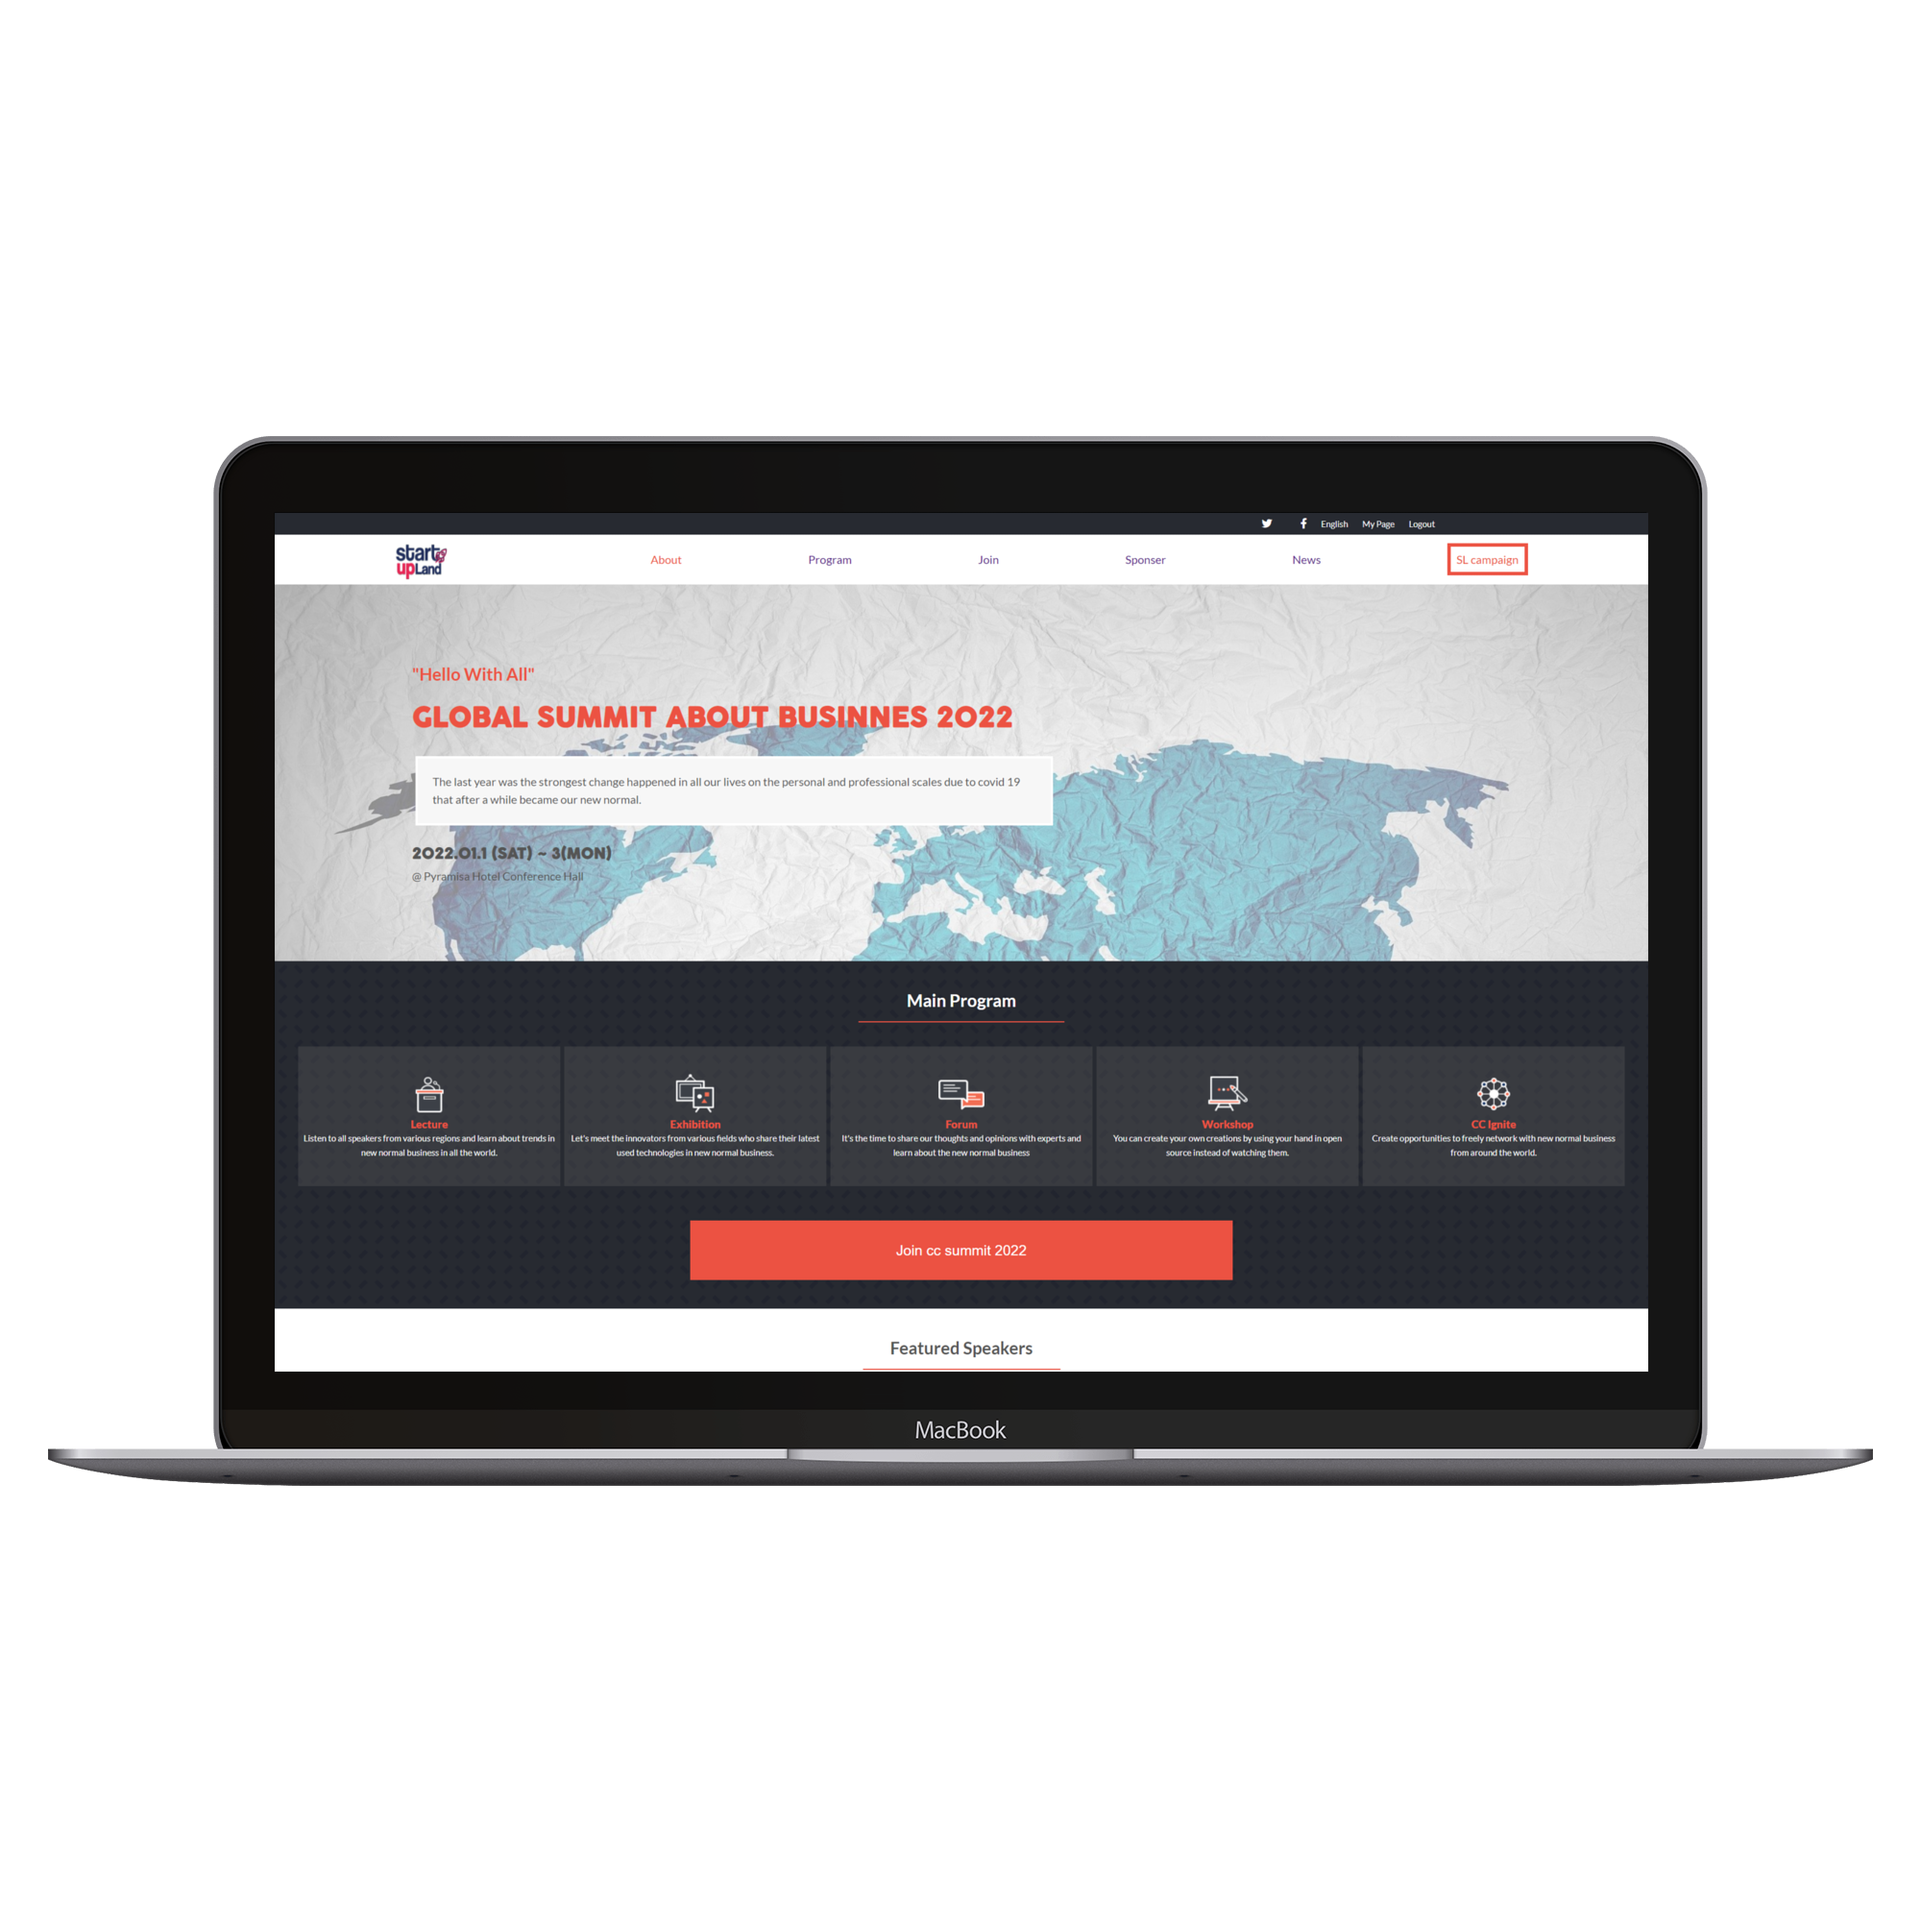
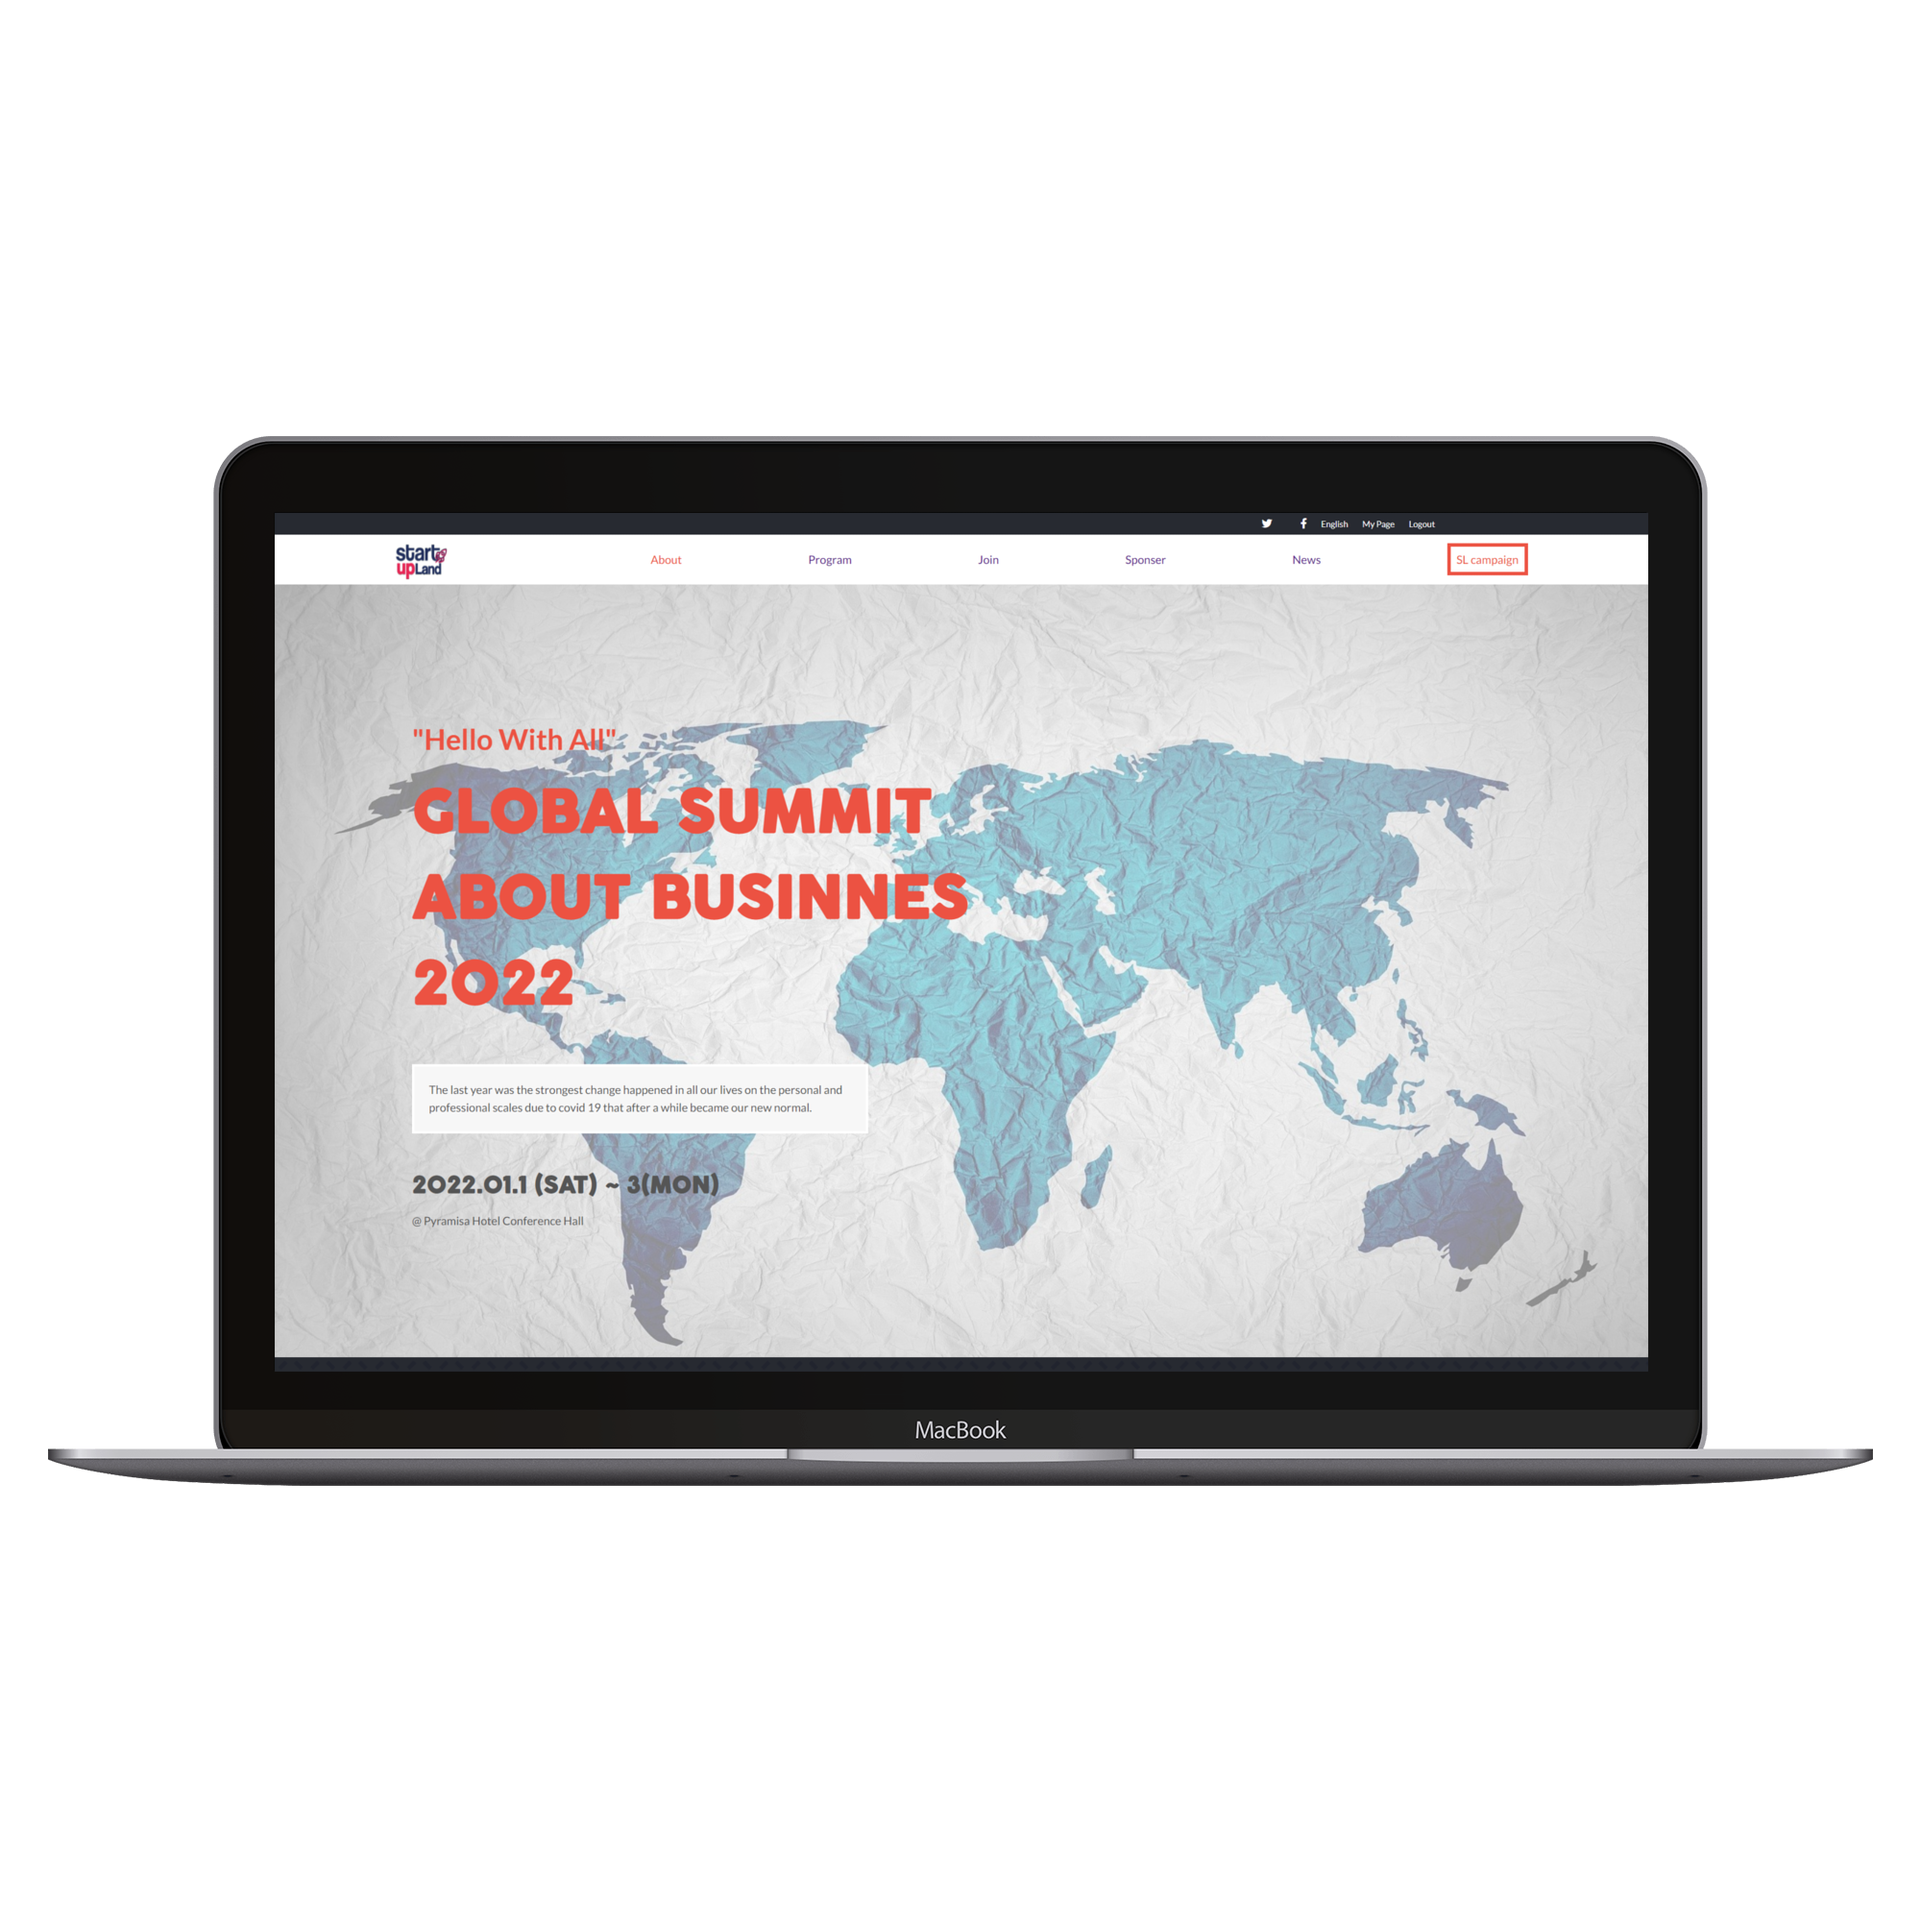
make some changes in style and readme

Changed region(s): [[0.124, 0.341, 0.868, 0.713]]

diff --git a/styles/index.css b/styles/index.css
@@ -229,20 +229,35 @@ body {
 
   .header {
     padding-left: 10%;
-    height: 100vh;
+    height: 90vh;
+    padding-top: 10%;
+  }
+
+  .header__header2 {
+    font-size: 2.5em;
   }
 
   .header__header1 {
-    width: 80%;
-    font-size: 2.4em;
+    width: 50%;
+    font-size: 5.1em;
+  }
+
+  .header__header1 span {
+    display: block;
   }
 
   .header__text {
     padding: 20px;
     border: 3.5px solid #fff;
     background-color: #f7f7f7;
-    margin: 5px;
-    width: 50%;
+    margin: 30px 0;
+    width: 35%;
+  }
+
+  .header__date {
+    font-family: 'COCOGOOSE', sans-serif;
+    font-size: 2em;
+    padding: 20px 0 15px 0;
   }
 
   .main__List {

diff --git a/index.html b/index.html
@@ -59,7 +59,7 @@
     <!-- header section -->
     <header class="header">
         <h2 class="header__header2">"Hello With All"</h2>
-        <h1 class="header__header1">GLOBAL SUMMIT ABOUT BUSINNES 2022</h1>
+        <h1 class="header__header1">GLOBAL SUMMIT ABOUT BUSINNES<span> 2022</span></h1>
         <p class="header__text">
             The last year was the strongest change happened in all our lives on the personal and professional scales due
             to covid 19 that after a while became our new normal.
